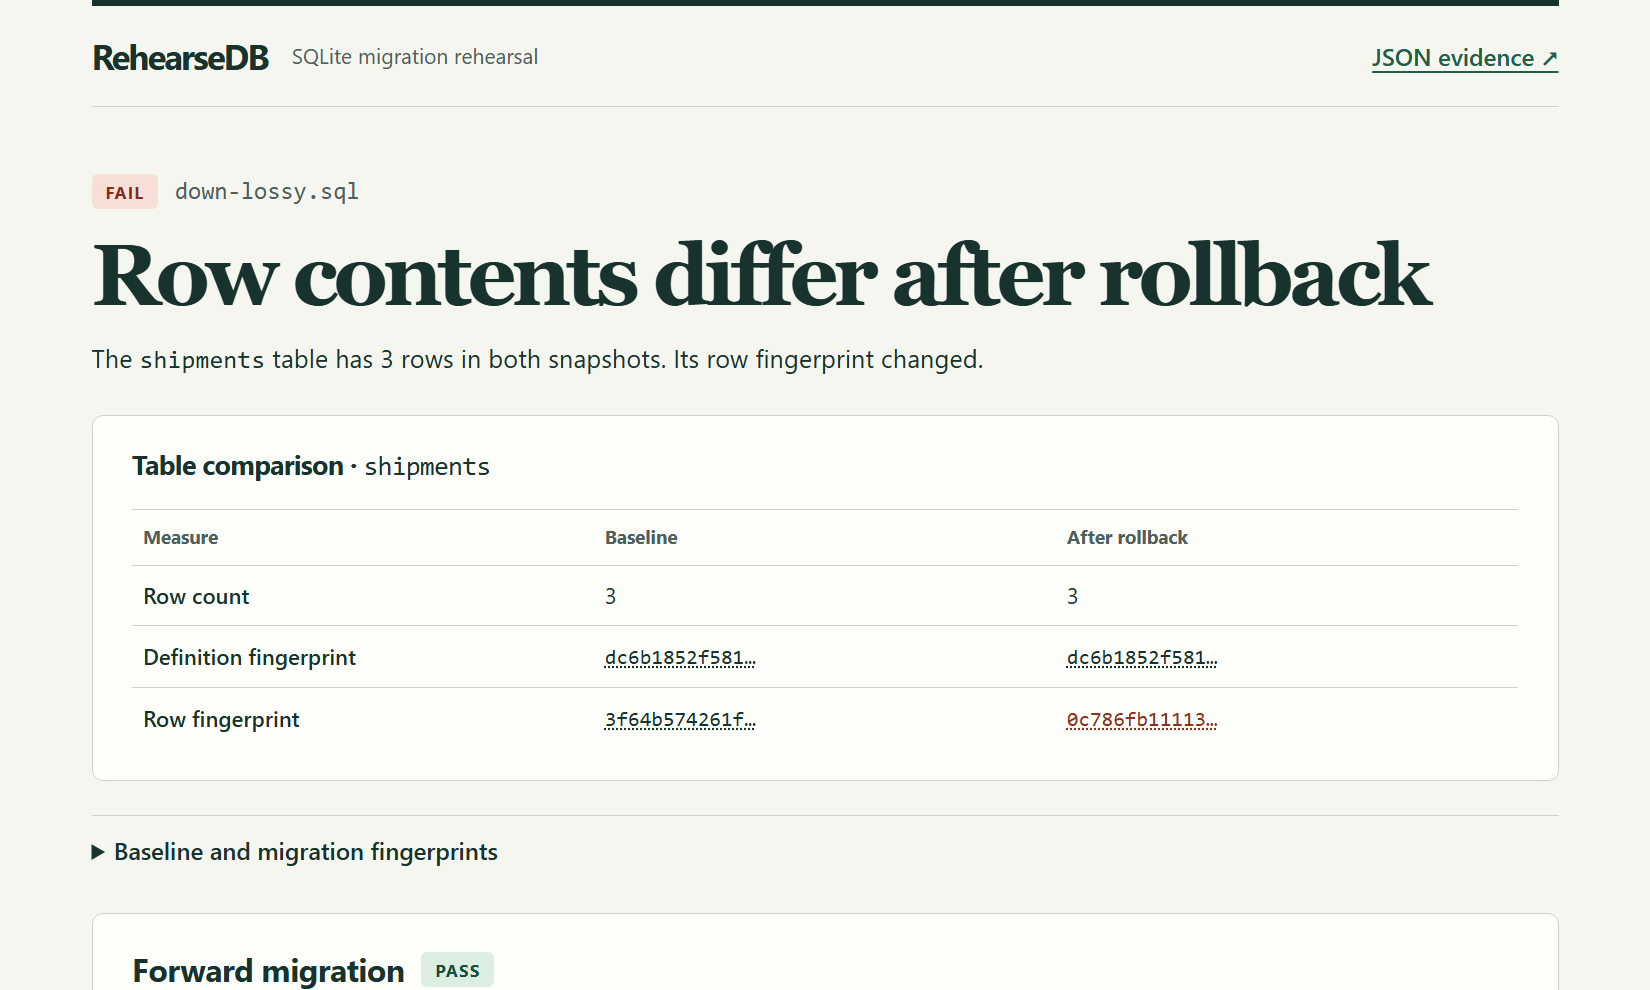
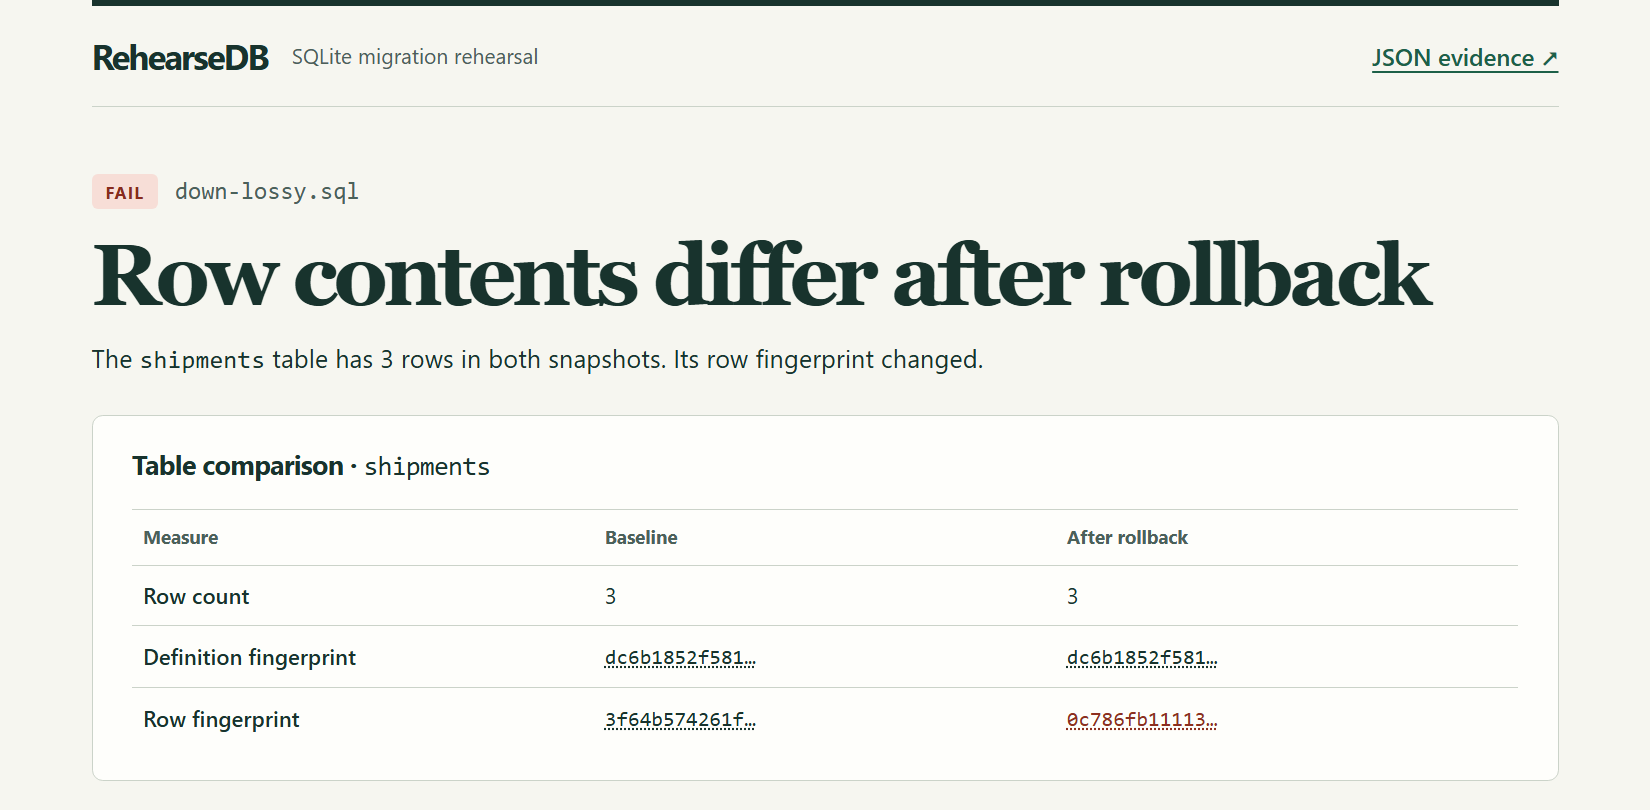
Link the rollback evidence to the original shipping records

diff --git a/README.md b/README.md
@@ -27,6 +27,8 @@ rehearsedb.bat demo --out shipping-demo
 
 Open `shipping-demo/lossy/report.html`. The example moves delivery instructions out of a `shipments` table. The safe rollback copies the instructions back before dropping the holding table. The lossy rollback recreates the column and drops the holding table immediately. Two of the three shipments lose their instructions.
 
+The report identifies the affected table. To see which values the example loses, read the [three input rows](examples/shipping/baseline.sql) alongside the [lossy rollback](examples/shipping/down-lossy.sql).
+
 | Result from the bundled example | Safe rollback | Lossy rollback |
 | --- | --- | --- |
 | Forward migration | PASS | PASS |
